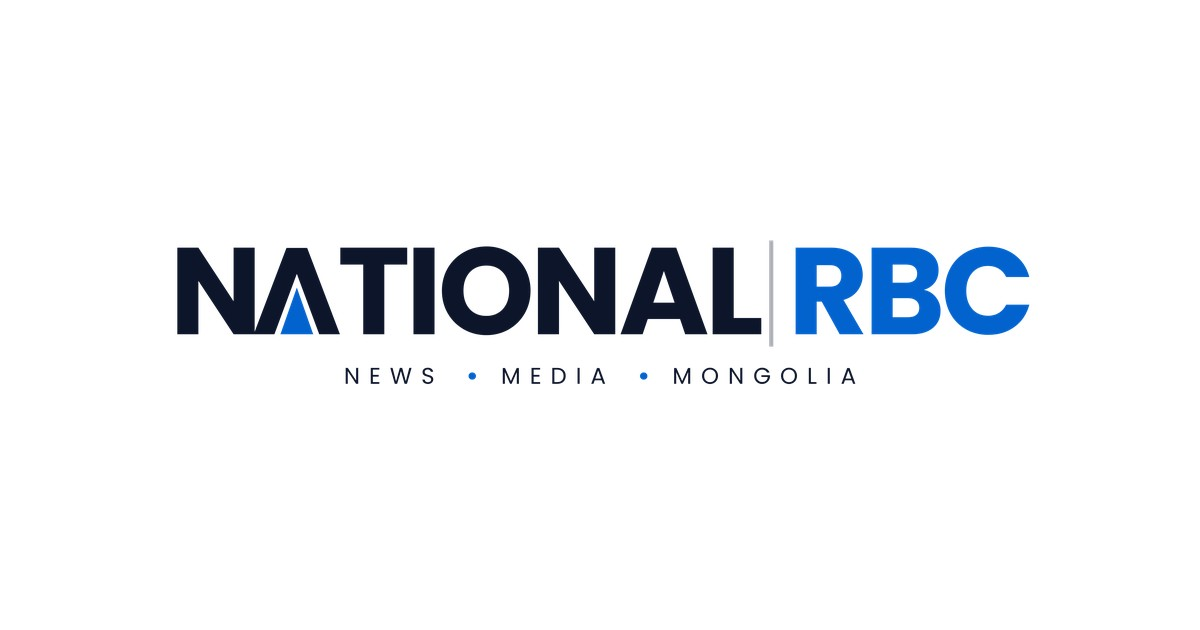
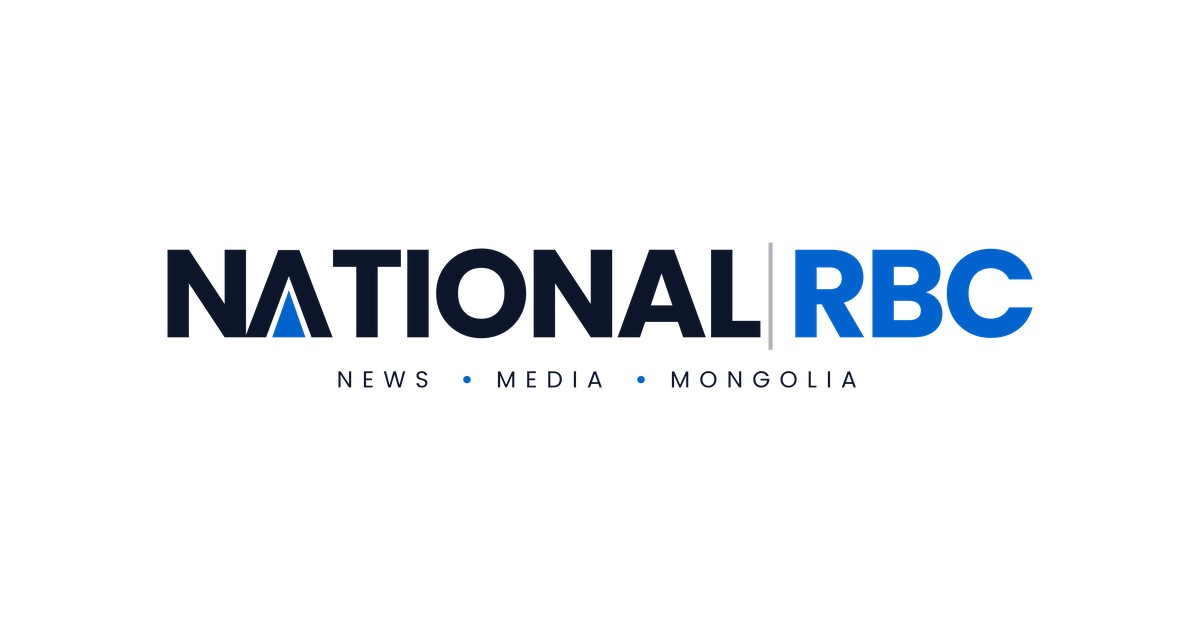
Логог яг голлуулав
- Trim logo PNGs to the visible artwork with equal padding on all sides (4K masters and web copies)
- Mobile header uses equal side columns so the logo sits at the exact centre

Claude-Session: https://claude.ai/code/session_01JvAJfAud3Ah2p7wG7HWkKJ

Changed region(s): [[0.1233, 0.3921, 0.8633, 0.5429], [0.2775, 0.573, 0.5242, 0.6333], [0.555, 0.573, 0.7092, 0.6333]]

diff --git a/php/assets/css/style.css b/php/assets/css/style.css
@@ -359,7 +359,7 @@ body.drawer-open .drawer-overlay { opacity: 1; pointer-events: auto; }
   .card-mini { grid-template-columns: 110px minmax(0, 1fr); gap: 14px; }
   .card-mini .card-title { font-size: 16px; }
   .article-foot { flex-direction: column; align-items: flex-start; }
-  .header-inner { min-height: 68px; grid-template-columns: auto 1fr auto; gap: 8px; }
+  .header-inner { min-height: 68px; grid-template-columns: minmax(0, 1fr) auto minmax(0, 1fr); gap: 8px; }
   .header-left { gap: 0; }
   .logo { font-size: 28px; text-align: center; }
   .logo img { max-height: 32px; margin: 0 auto; }
